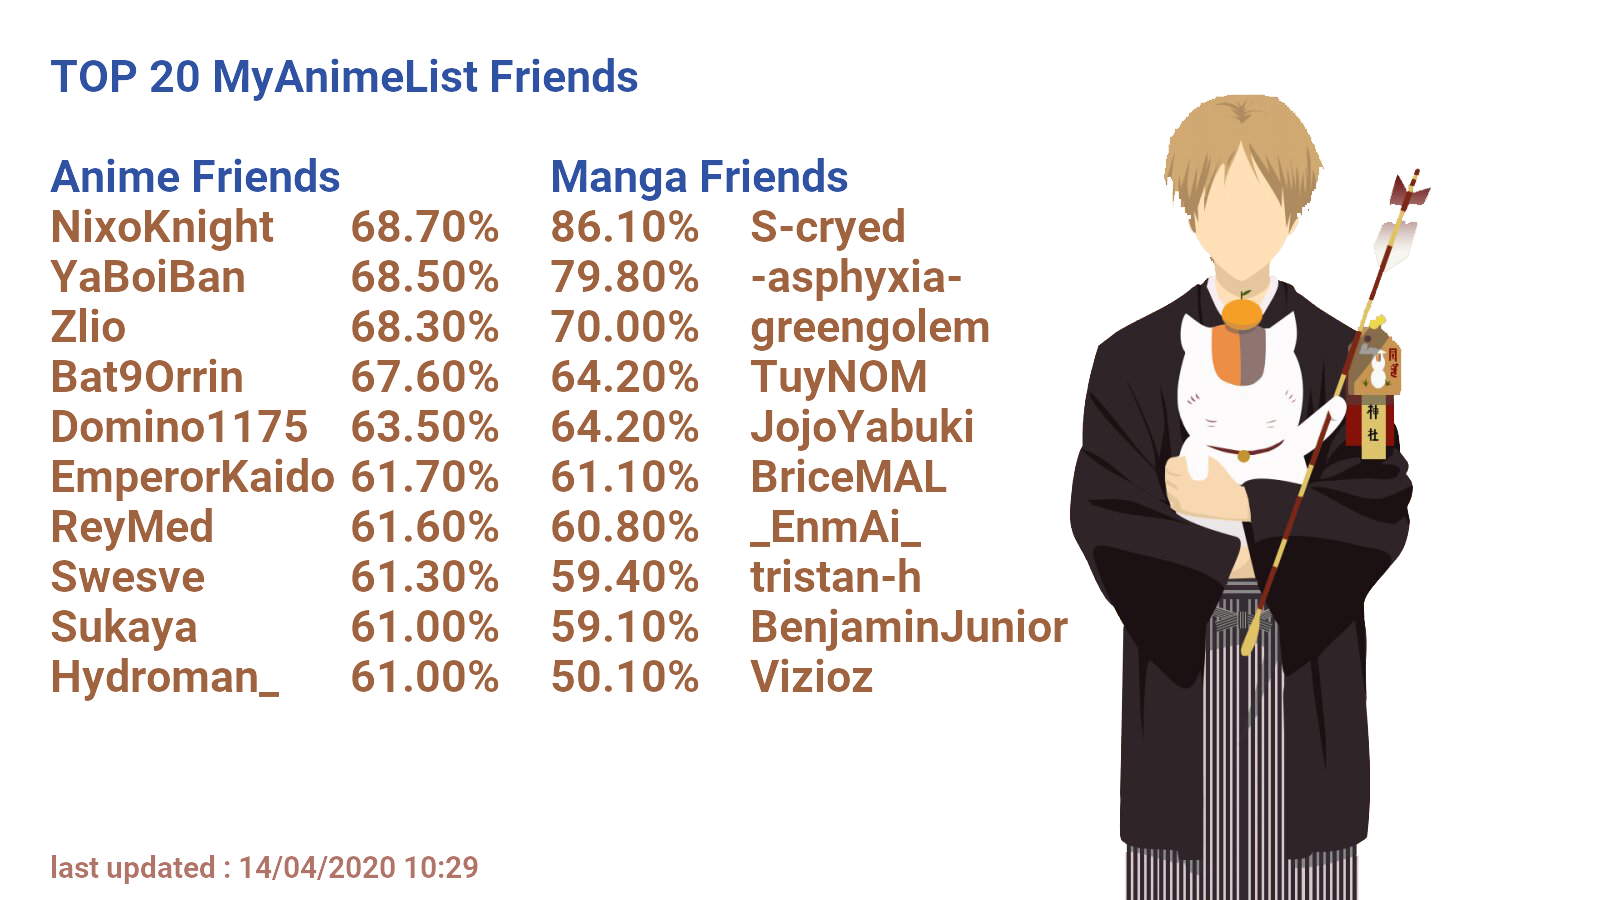
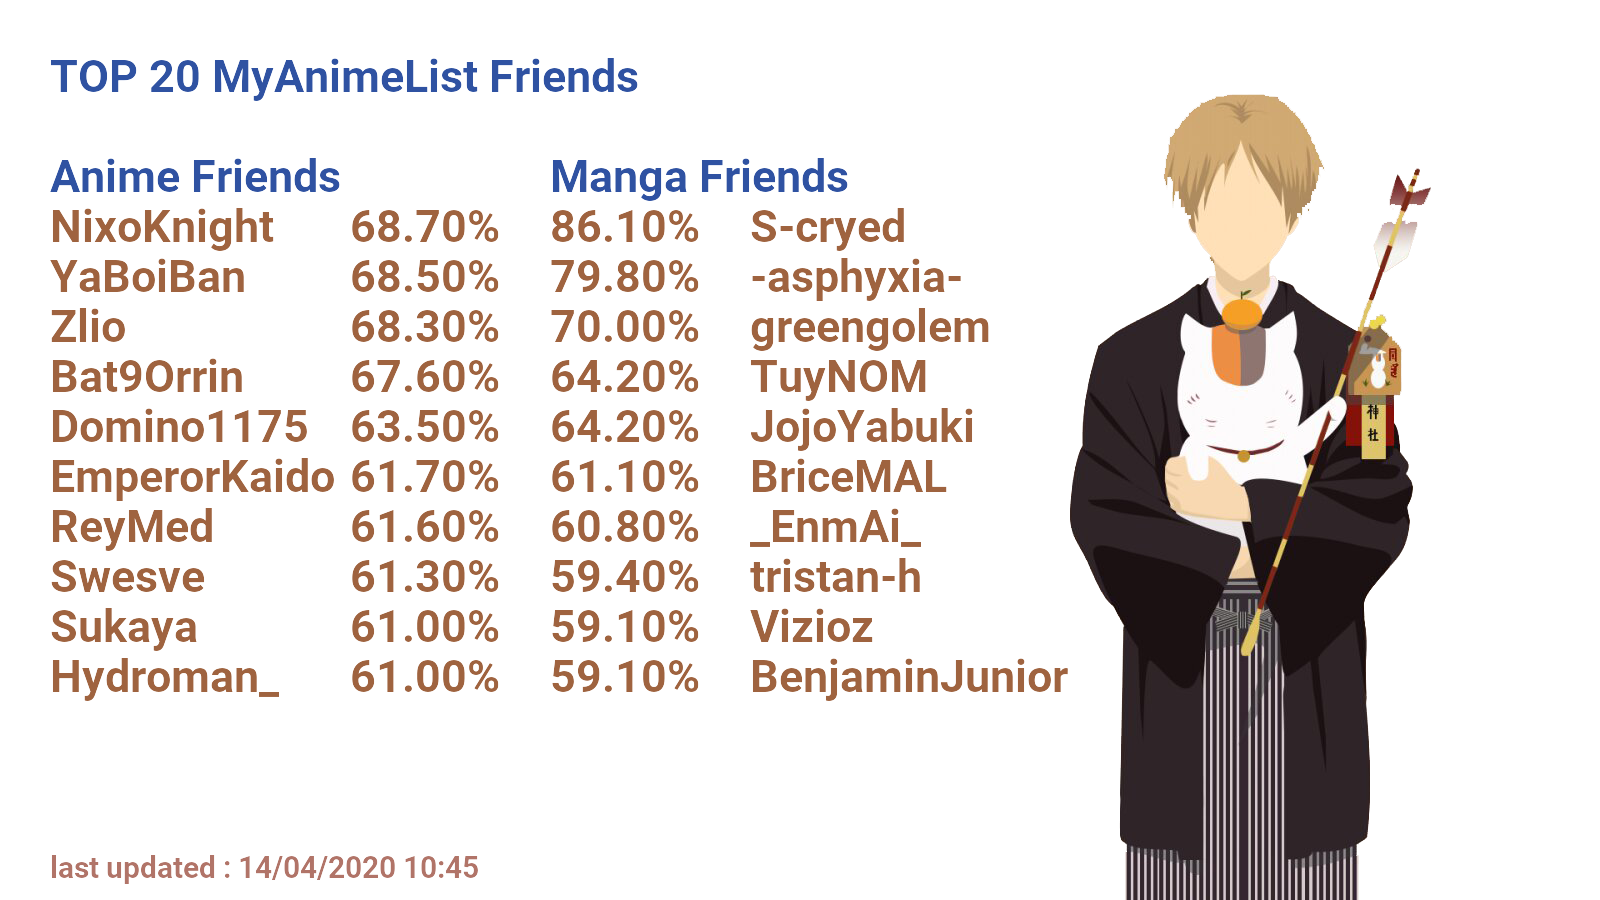
updates

Changed region(s): [[0.4688, 0.6533, 0.6875, 0.7778], [0.2812, 0.9333, 0.3125, 0.9956], [0.3438, 0.7467, 0.375, 0.7778]]

diff --git a/AffinityScraperMAL/spiders/weebo.py b/AffinityScraperMAL/spiders/weebo.py
@@ -1,6 +1,7 @@
 #coding=utf-8
 import os
 import time
+from importlib import reload
 import scrapy
 import AffinityScraperMAL.spiders.config
 import AffinityScraperMAL.spiders.credentials
@@ -142,6 +143,7 @@ class MAL_spider(scrapy.Spider):
         color = 'rgb(177,116,104)'
         draw.text((x, y), lasttime, fill=color, font=updatefont)
 
+        AffinityScraperMAL.spiders.config = reload(AffinityScraperMAL.spiders.config)
         for i in range(0,10):
             names.append(''.join([v for v in AffinityScraperMAL.spiders.config.rankedaff[i][0]]))
             namesmanga.append(''.join([v for v in AffinityScraperMAL.spiders.config.rankedaffmanga[i][0]]))
